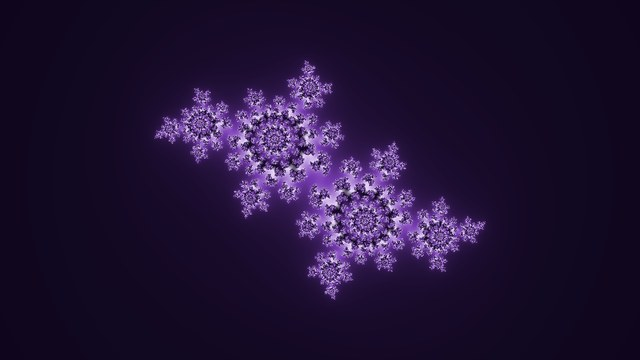
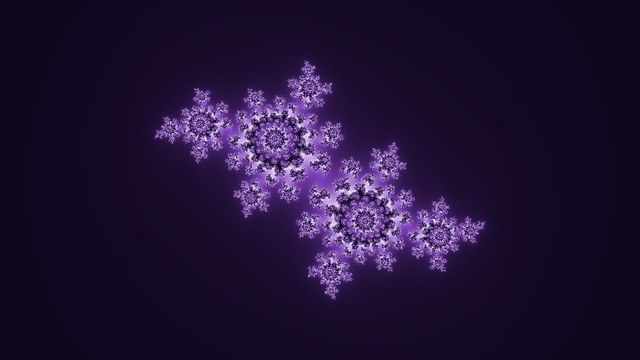
Log-damp the colour density so dense regions stop reading as noise
With a linear t = smoothIter * 0.02, neighbouring pixels in regions
where the set fills the frame differ by hundreds of iterations - several
full palette cycles - so the filament texture averaged out to grey
speckle. The mapping is now t = 5.545 * log2(1 + smoothIter / 400):
band width grows with the iteration count (constant per ratio), turning
those regions into legible blue-and-gold filigree. The slope at 0
matches the old 0.02 (5.545 = 0.02 * 400 / ln 2), so wide views are
visually unchanged.

Applied identically in all four implementations (WGSL, GLSL, CUDA, and
the mpmath/NumPy reference, which also picks up the Ice fractal gradient
it had missed); the pixel-for-pixel CUDA vs reference comparison passes
at 100%. Hero GIF, gallery and deep-zoom images regenerated.

Changed region(s): [[0.25, 0.1833, 0.75, 0.825]]

diff --git a/src/backends/webgl/webglRenderer.ts b/src/backends/webgl/webglRenderer.ts
@@ -123,9 +123,11 @@ void main() {
   }
 
   // Smooth colouring, consistent with the WebGPU backend (samples the LUT).
+  // Log-damped colour density — see julia.wgsl for the rationale.
   float nu = log2(0.5 * log2(mag2));
   float smoothIter = float(iter) + 1.0 - nu;
-  outColor = vec4(texture(u_lut, vec2(smoothIter * 0.02, 0.5)).rgb, 1.0);
+  float t = 5.545 * log2(1.0 + smoothIter / 400.0);
+  outColor = vec4(texture(u_lut, vec2(t, 0.5)).rgb, 1.0);
 }
 `;
 

diff --git a/scripts/reference_julia.py b/scripts/reference_julia.py
@@ -28,18 +28,29 @@ import numpy as np
 from PIL import Image
 
 
-# Smooth colouring, strictly identical to the GPU backends.
+# "Ice fractal" gradient, same stops as the browser default palette
+# (src/ui/palettes.ts) and the CUDA `palette` (cuda/julia.cu).
+ICE_POS = [0.0, 0.16, 0.42, 0.6425, 0.8575, 1.0]
+ICE_COL = [(0, 7, 100), (32, 107, 203), (237, 255, 255), (255, 170, 0), (0, 2, 0), (0, 7, 100)]
+
+
+# Smooth colouring, strictly identical to the GPU backends: log-damped colour
+# density (slope at 0 matches a linear 0.02: 5.545 = 0.02 * 400 / ln 2) into
+# the Ice fractal gradient, wrapped like the shaders' repeat sampler.
 def color(iter_count: int, mag2: float, max_iter: int) -> tuple[int, int, int]:
     if iter_count >= max_iter:
         return (0, 0, 0)  # interior
     nu = math.log2(0.5 * math.log2(mag2))
-    t = (iter_count + 1.0 - nu) * 0.02
-    tau = 6.2831853
-    r = 0.5 + 0.5 * math.cos(tau * (0.00 + t))
-    g = 0.5 + 0.5 * math.cos(tau * (0.33 + t))
-    b = 0.5 + 0.5 * math.cos(tau * (0.67 + t))
-    clamp = lambda v: max(0, min(255, int(v * 255.0)))
-    return (clamp(r), clamp(g), clamp(b))
+    si = iter_count + 1.0 - nu
+    t = 5.545 * math.log2(1.0 + si / 400.0)
+    t -= math.floor(t)
+    for k in range(5):
+        if t <= ICE_POS[k + 1]:
+            f = (t - ICE_POS[k]) / (ICE_POS[k + 1] - ICE_POS[k])
+            c0, c1 = ICE_COL[k], ICE_COL[k + 1]
+            # int() truncates, matching CUDA's (unsigned char) cast.
+            return tuple(max(0, min(255, int(c0[j] + (c1[j] - c0[j]) * f))) for j in range(3))
+    return ICE_COL[-1]
 
 
 # Vectorized direct iteration in float64. Fast, valid at moderate zoom.
